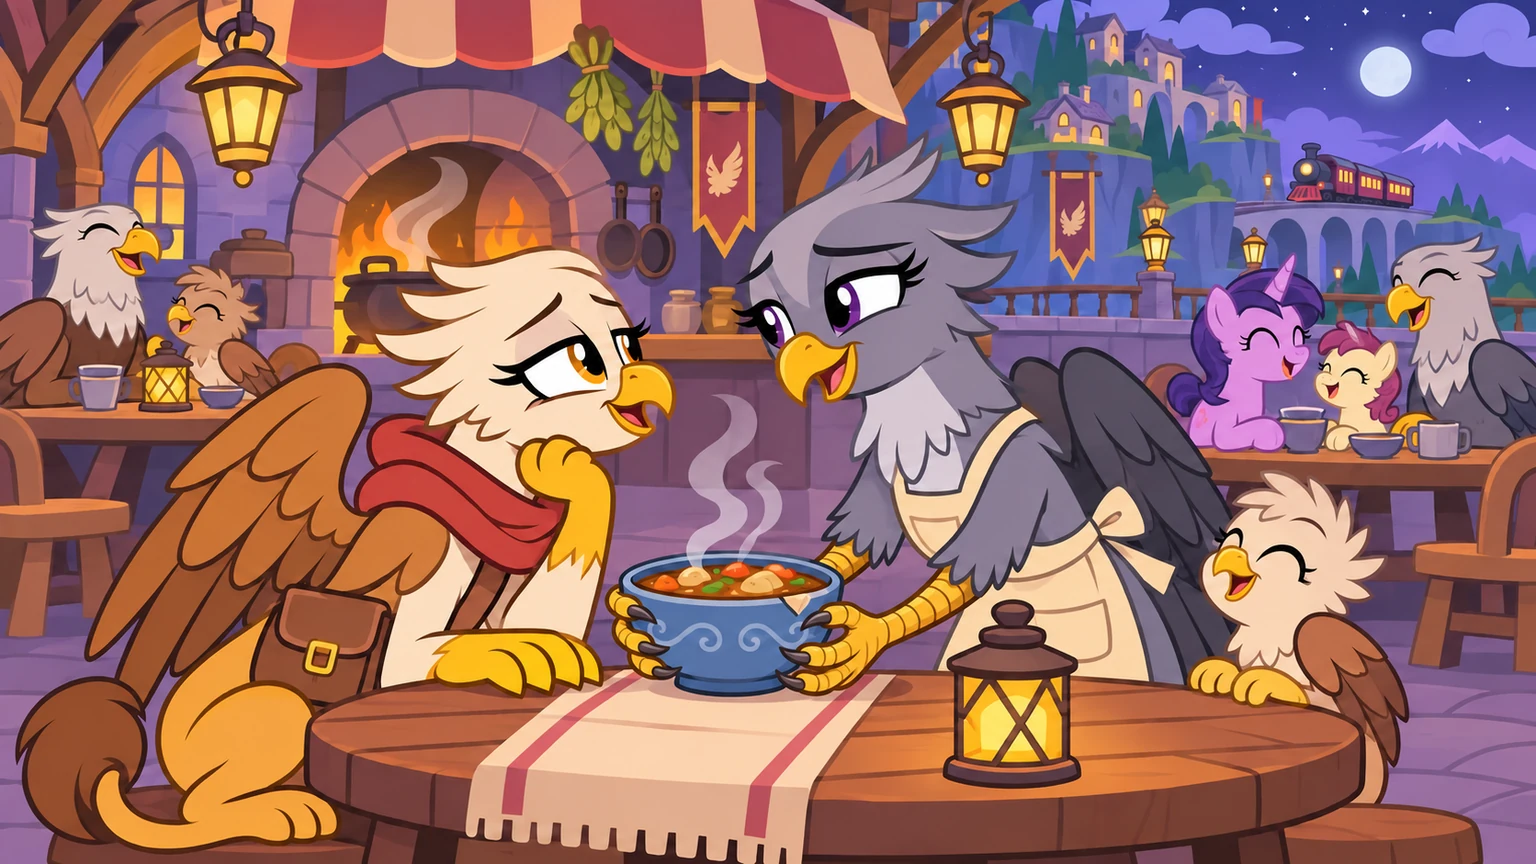
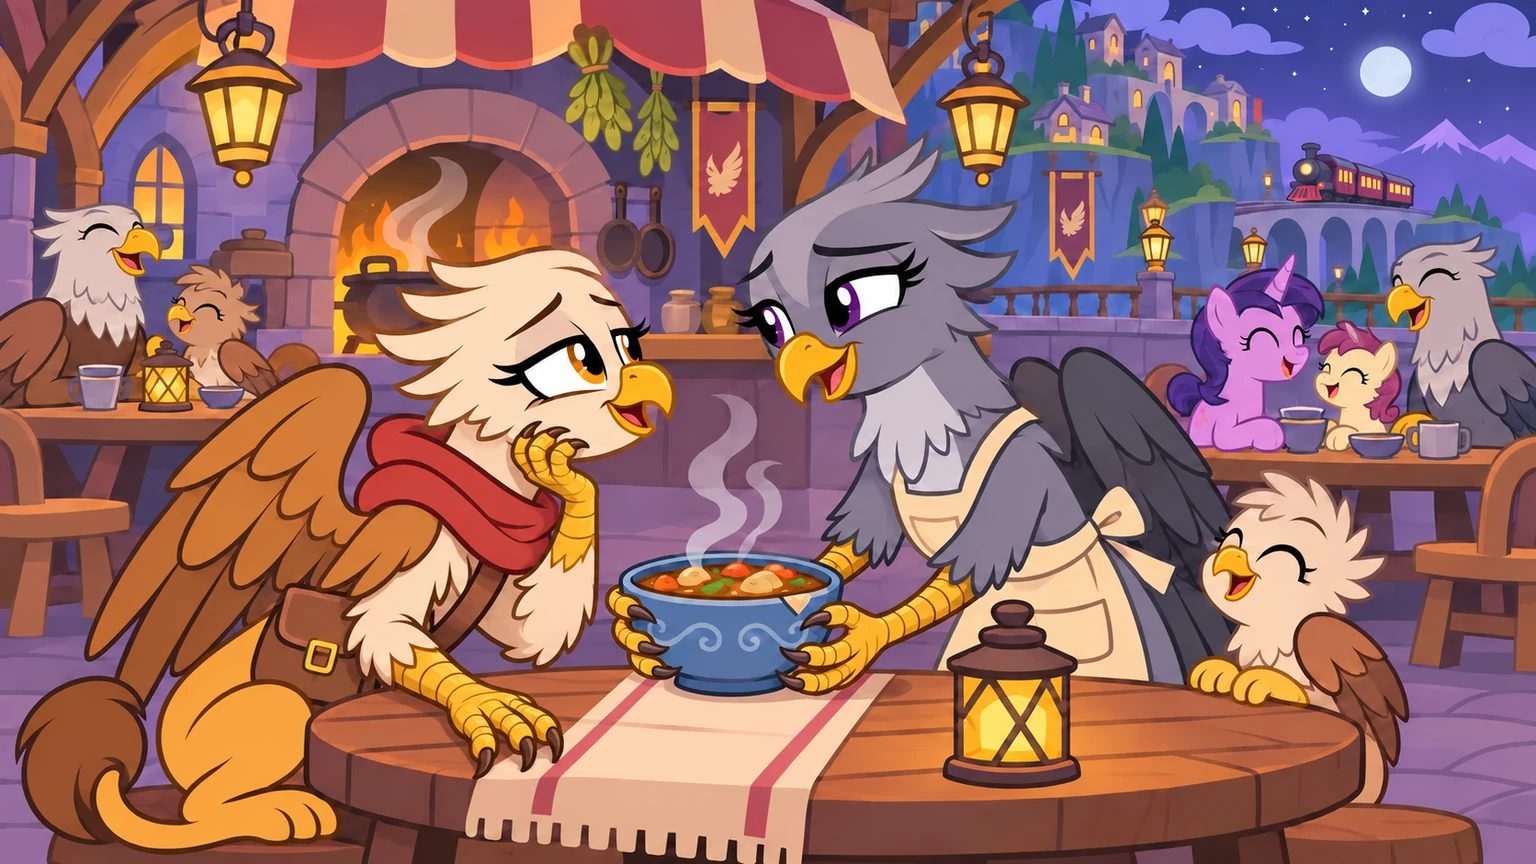
Correct the courier foretalons in the stew ending

diff --git a/play.js b/play.js
@@ -75,7 +75,7 @@ function render(moveFocus = false) {
   byId('cover-plate').hidden = isEnding;
   endingPlate.hidden = !isEnding;
   if (isEnding) {
-    const imagePath = 'endings/' + key + '.webp?v=pony-hoof';
+    const imagePath = 'endings/' + key + '.webp?v=table-foretalon';
     endingImage.alt = node.artAlt;
     endingImage.src = imagePath;
     endingPlate.style.setProperty('--ending-art', 'url("' + imagePath + '")');

diff --git a/index.html b/index.html
@@ -8,7 +8,7 @@
   <title>The Last Train to Griffonstone</title>
   <link rel="stylesheet" href="style.css?v=ending-art">
   <script defer src="story.js?v=ending-art"></script>
-  <script defer src="play.js?v=pony-hoof"></script>
+  <script defer src="play.js?v=table-foretalon"></script>
 </head>
 <body>
   <a class="skip" href="#story">Skip to story</a>
